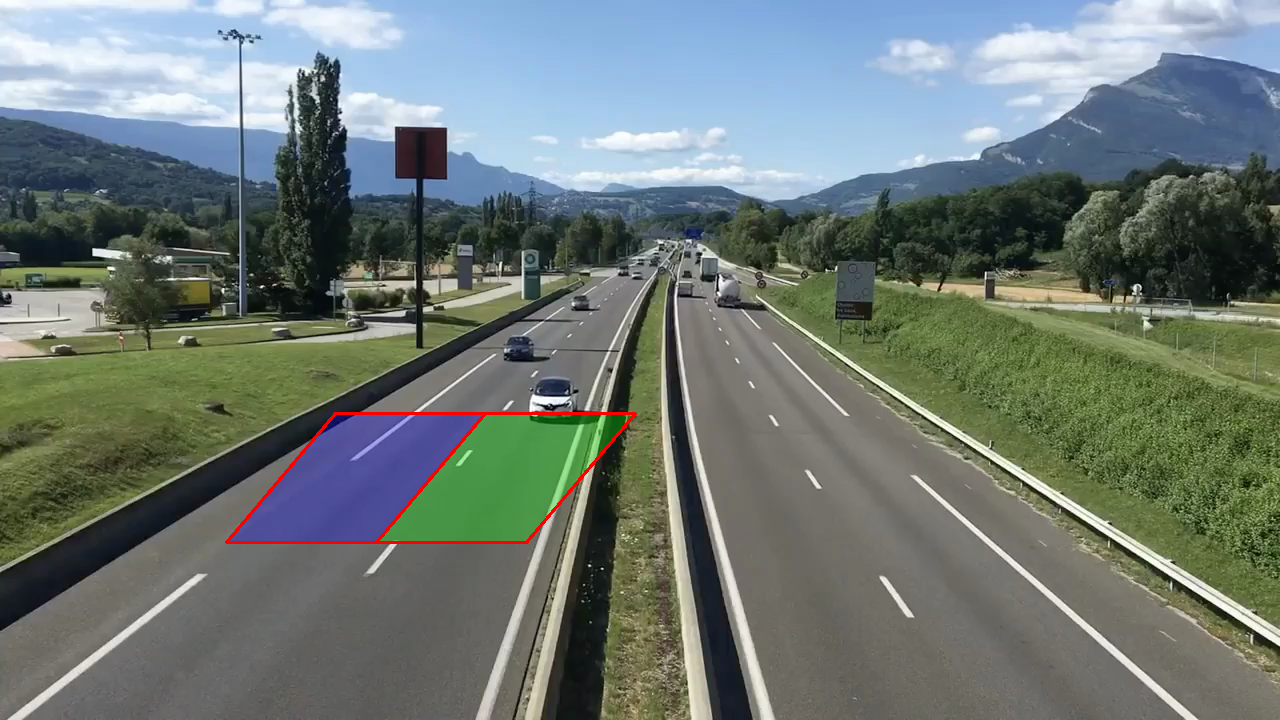
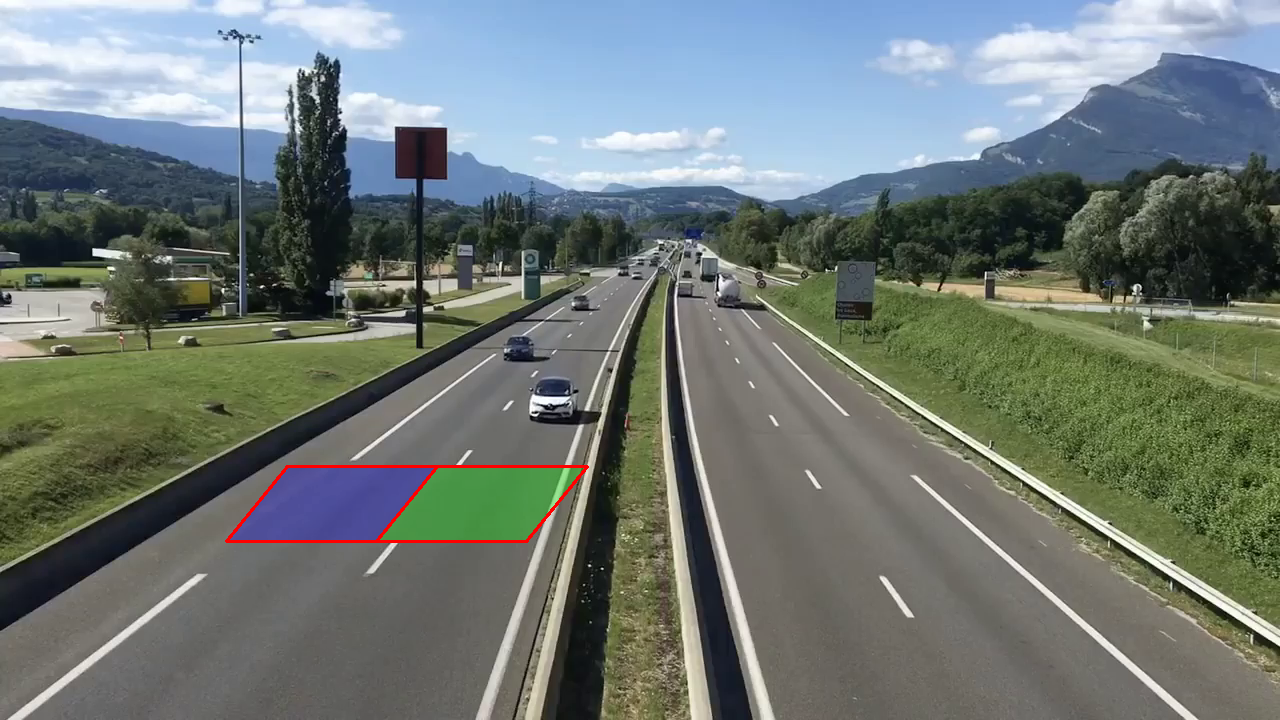
Folder Path changed

Changed region(s): [[0.2188, 0.55, 0.5, 0.7028], [0.2812, 0.7333, 0.3125, 0.7639], [0.1875, 0.6722, 0.2188, 0.7028]]

diff --git a/2. vehicle_speed_detection/utils/zone_creation.py b/2. vehicle_speed_detection/utils/zone_creation.py
@@ -174,7 +174,7 @@ def create_zones_from_video(video_path):
     cv2.line(output_image, p_left_2, p_right_2, LINE_COLOR, LINE_THICKNESS)
 
     # Define the output directory
-    output_dir = "vehicle_speed_detection/frames/output"
+    output_dir = "2. vehicle_speed_detection/frames/output"
     
     # Create the directory and any necessary parent directories if they don't exist
     os.makedirs(output_dir, exist_ok=True)
@@ -203,7 +203,7 @@ if __name__ == "__main__":
     # )
     # parser.add_argument("video_path", type=str, help="Path to the input mp4 video file.")
     # args = parser.parse_args()
-    video_path = "vehicle_speed_detection/videos/input/highway_clipped.mp4"
+    video_path = "2. vehicle_speed_detection/videos/input/highway_clipped.mp4"
     points = create_zones_from_video(video_path)
     print(points)
     # return points
